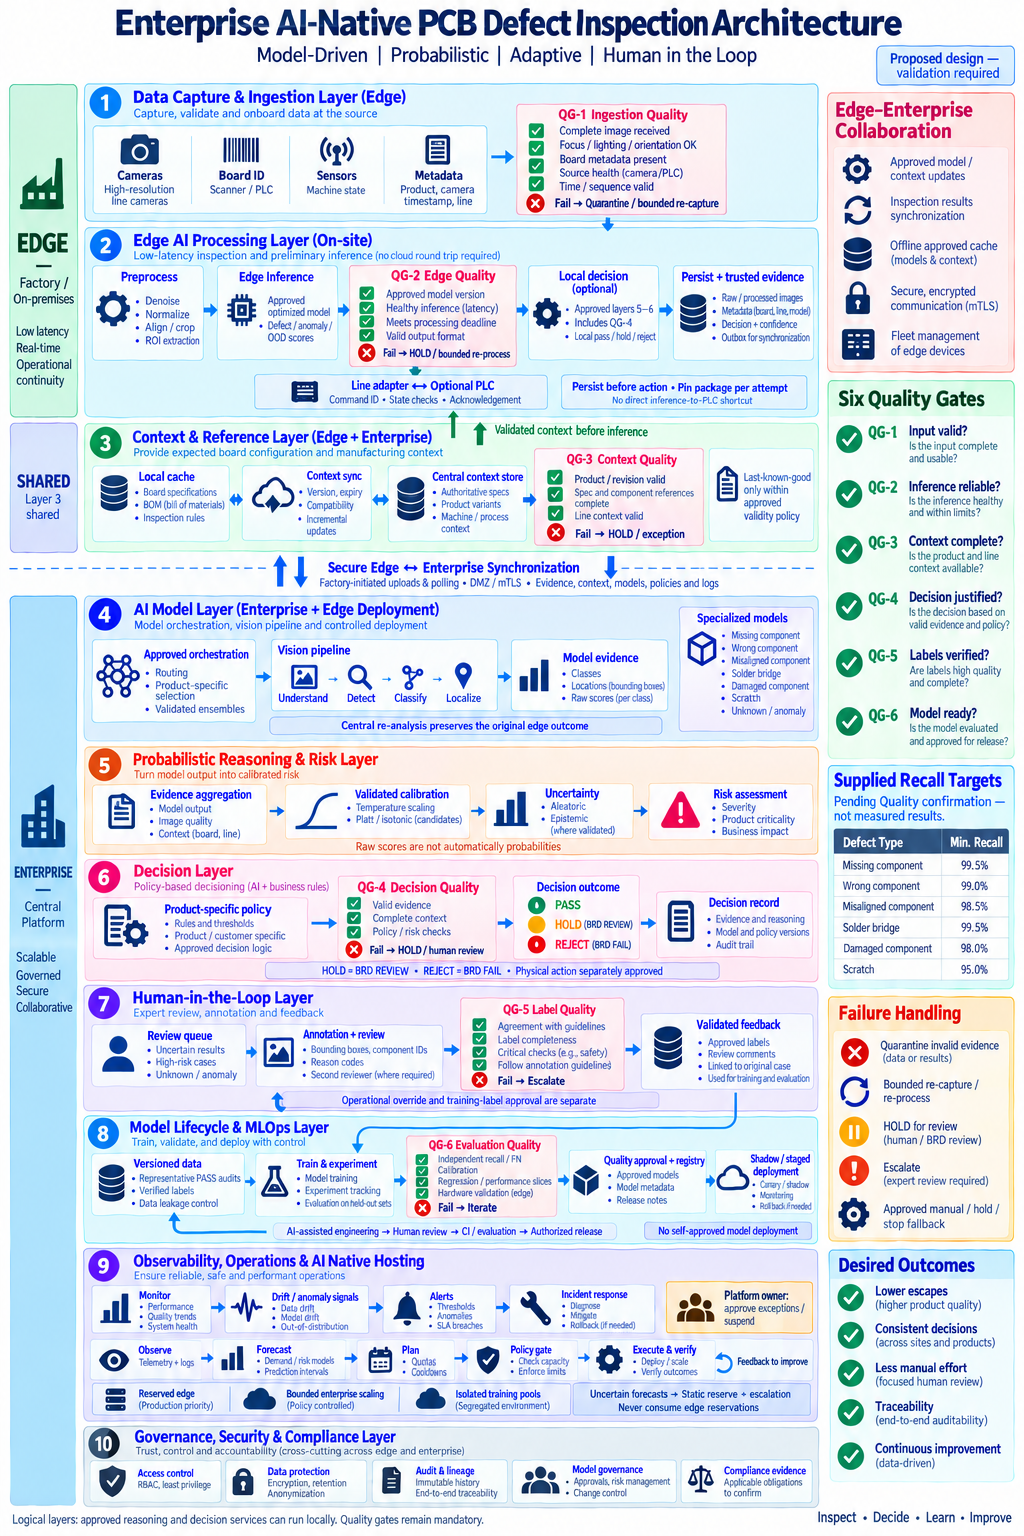
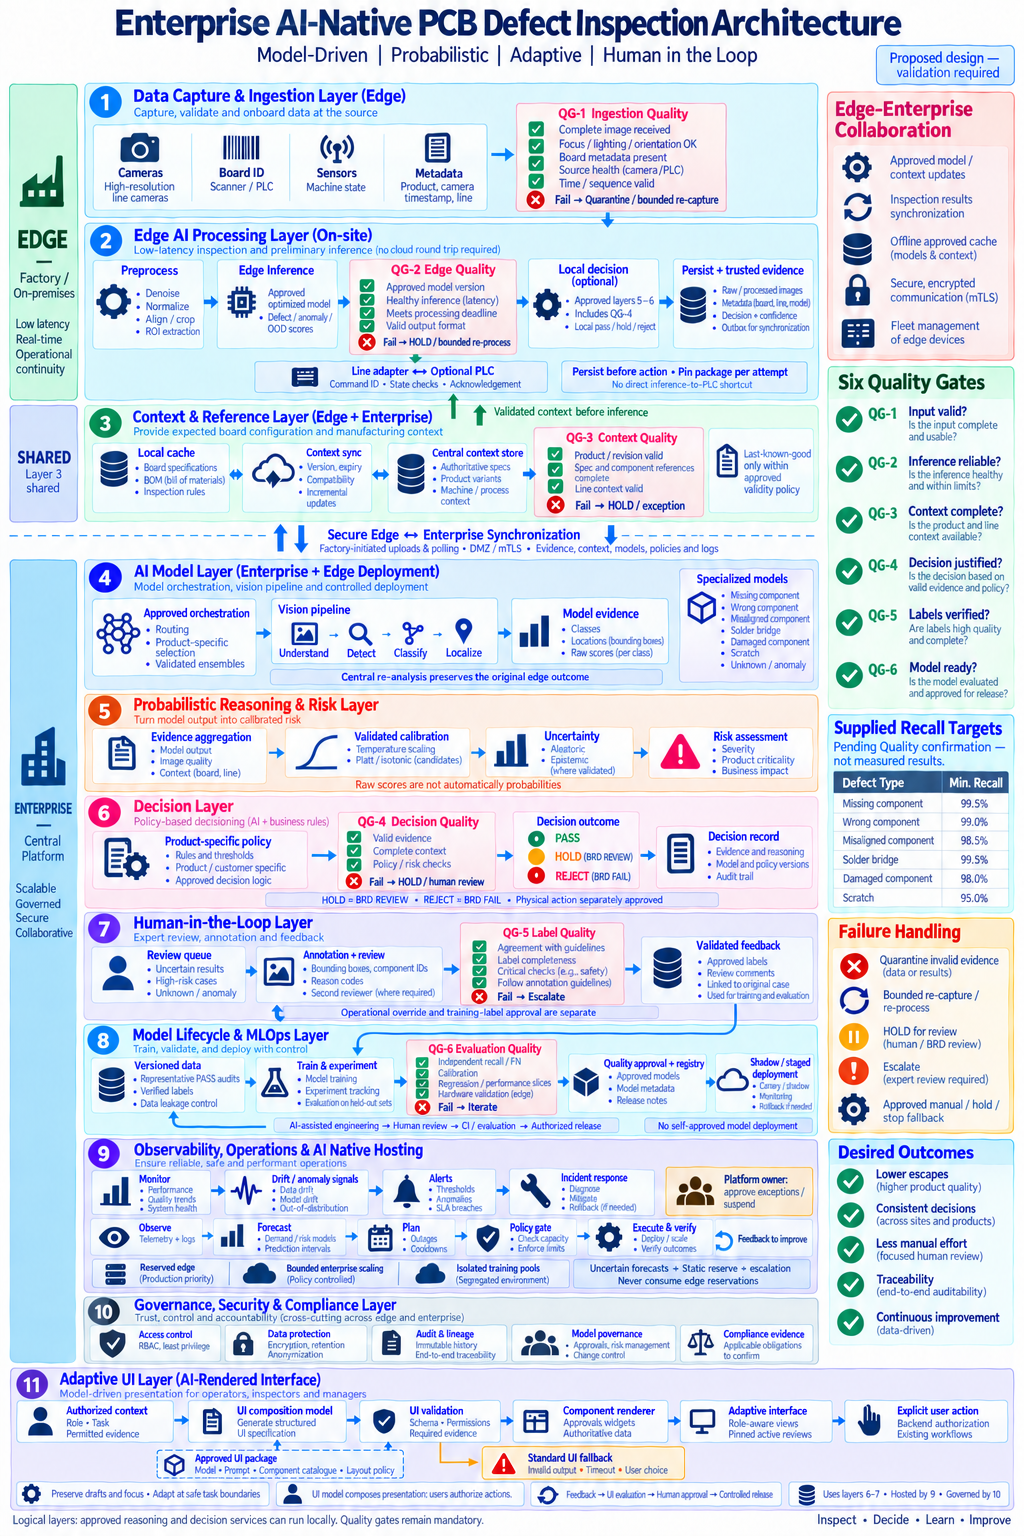
Enhanced diagram

diff --git a/AI_NATIVE_PROBABILISTIC_ARCHITECTURE_MERMAID.md b/AI_NATIVE_PROBABILISTIC_ARCHITECTURE_MERMAID.md
@@ -6,7 +6,7 @@ Target visual structure: [ARCH DIAGRAM WITH EDGE.png](<ARCH DIAGRAM WITH EDGE.pn
 
 Based on [Business Requirements Document.docx](<Business Requirements Document.docx>), [Solution architecture.png](<Solution architecture.png>) and [AI_NATIVE_GAP_ANALYSIS.docx](AI_NATIVE_GAP_ANALYSIS.docx). The gap analysis supplies the proposed extensions; it does not convert BRD discovery questions into approved requirements.
 
-This revision extends AI Native design from detection through hosting using four perspectives: **Model-Driven, Probabilistic, Adaptive, and Human in the Loop**. It contains five complementary Mermaid diagrams. Diagram 1 follows the expected ten-layer edge–enterprise architecture with QG-1 through QG-6; diagrams 2–4 expand decision, learning and engineering; diagram 5 defines adaptive hosting and operations. Standalone `.mmd` files with the same code are provided in `architecture/`. Predictive hosting and bounded operational adaptation are proposed extensions requested in this revision, not requirements already approved in the BRD.
+This revision extends AI Native design from detection through hosting using four perspectives: **Model-Driven, Probabilistic, Adaptive, and Human in the Loop**. It contains six complementary Mermaid diagrams. Diagram 1 preserves the expected layers 1–10 and QG-1 through QG-6, and adds **Layer 11: Adaptive UI (AI-rendered interface)** as the user interaction layer; diagrams 2–4 expand decision, learning and engineering; diagram 5 defines adaptive hosting and operations; diagram 6 details model-driven UI composition. Standalone `.mmd` files with the same code are provided in `architecture/`. Predictive hosting and Adaptive UI are user-requested extensions, not requirements already approved in the BRD. Existing layer numbering and responsibilities remain unchanged.
 
 ## 1. Architecture interpretation
 
@@ -39,6 +39,7 @@ Angular/TypeScript, Java/Spring Boot, Python/ONNX Runtime, PostgreSQL, RabbitMQ 
 | Engineering and evaluation | AI-assisted tasks grounded in approved context and executable contracts | Generated output is a hypothesis until verified | Feedback improves task context, test coverage and candidate implementation | Engineers and QA independently review outputs and evidence. |
 | Delivery and hosting | Immutable package, infrastructure specification and demand/risk model | Forecast intervals and risk estimates accompany capacity proposals | Bounded central scaling, scheduling and authorized rollback with cooldowns | Platform owners approve envelopes; Quality approves model-affecting changes. |
 | Operations and recovery | Versioned anomaly models, dependency maps and runbooks | Incident hypotheses include uncertainty and supporting telemetry | Low-risk pre-authorized runbooks; otherwise escalate; verify the result | Operators can stop adaptation, approve exceptions and restore known-good operation. |
+| Adaptive UI | Approved UI composition model, component catalogue and schema | Validate generated UI specifications; abstain or fall back on ambiguous requests | Compose views from role, task, evidence and explicit preferences at safe interaction boundaries | Users retain decision authority, can pin layouts and switch to a standard interface. |
 
 These are target capabilities with acceptance gates. Learned image-quality, ranking or operational models must earn deployment through evidence; deterministic baseline checks and static capacity reserves remain available when models are absent, stale or unreliable.
 
@@ -197,6 +198,25 @@ flowchart TB
             Audit[("Audit and lineage<br/>Restricted immutable history and end-to-end traceability")]
             Govern["Model governance and compliance evidence<br/>Approval workflows, risk management<br/>Internal / external audit; applicable obligations to confirm"]
         end
+        subgraph L11["11. ADAPTIVE UI LAYER - AI-rendered enterprise interface"]
+            UIUser["Operator / inspector / manager<br/>Task intent, explicit preferences and layout controls"]
+            UIContext["Authorized UI context service<br/>Role, task, permitted evidence and workflow state<br/>Filter data before model access"]
+            UIModel["Approved UI composition model<br/>Generate structured screen / component specification<br/>Select layout, evidence panels and approved actions"]
+            UICatalog[("Versioned UI contract and component catalogue<br/>Approved widgets, action IDs and required evidence<br/>Accessibility and interaction constraints")]
+            UIValidate{"UI specification validation<br/>Schema, component / action allowlists, permissions<br/>Mandatory evidence and workflow invariants satisfied?"}
+            UIRender["AI-rendered UI via deterministic renderer<br/>Approved Angular components from validated specification<br/>Stable focus, draft preservation and pinned active review"]
+            UIFallback["Standard validated interface<br/>Model timeout, invalid output or user-selected fallback"]
+            UIAction["Backend action gateway<br/>Reauthorize user and validate current record / board state<br/>Explicit user submission; existing workflow owns execution"]
+            UIUser --> UIContext --> UIModel --> UIValidate
+            UICatalog -.-> UIModel
+            UICatalog -.-> UIValidate
+            UIValidate -->|"Valid"| UIRender
+            UIValidate -->|"Invalid / uncertain"| UIFallback
+            UIModel -->|"Timeout / unavailable"| UIFallback
+            UIRender -->|"Displayed interface"| UIUser
+            UIFallback -->|"Displayed interface"| UIUser
+            UIUser -->|"Explicit action through either interface"| UIAction
+        end
     end
 
     Trusted -->|"Persisted evidence"| Sync
@@ -224,6 +244,16 @@ flowchart TB
     Govern -.-> Approval
     Govern -.-> CentralContext
     Govern -.-> Decision
+    Access -.-> UIContext
+    Review -->|"Permission-filtered review task"| UIContext
+    DecisionRecord -->|"Authorized original outcome and evidence"| UIContext
+    Monitor -->|"Authorized operational view"| UIContext
+    UIAction -->|"Existing authorized review workflow"| Annotation
+    UIAction -->|"Authorized read requests"| UIContext
+    UIRender -.->|"UI version and interaction telemetry"| Monitor
+    UIAction -->|"Actor, action and UI specification version"| Audit
+    Govern -.-> UICatalog
+    Deploy -.->|"Separately evaluated and approved UI model"| UIModel
 
     classDef ai fill:#eee6ff,stroke:#7954a1,color:#211a33;
     classDef gate fill:#fff0cc,stroke:#ad7600,color:#302400;
@@ -233,6 +263,10 @@ flowchart TB
     class QG1,QG2,QG3,QG4,QG5,QG6,Approval,Decision,EdgeDecision gate;
     class Trusted,Cache,CentralContext,DecisionRecord,Feedback,Registry,Audit data;
     class CaptureFailure,EdgeFailure,ContextFailure,DecisionHold,Escalate risk;
+    class UIModel ai;
+    class UIValidate,UIAction gate;
+    class UICatalog data;
+    class UIFallback risk;
 ```
 
 Operational interpretation: local inspection can continue during a central outage only while approved equipment, configuration, evidence capacity and the agreed local review/fallback procedure remain available. If the edge itself or its durable storage fails, the independent Manufacturing-approved procedure must work without relying on the failed application. No browser, assistant or training service connects directly to the PLC.
@@ -525,7 +559,7 @@ Persist images durably before committing references. Track partial uploads and c
 
 Quality must approve taxonomy, supported scope, metric definitions, per-defect limits, uncertainty/review policy, statistical acceptance and labeling authority. Manufacturing and Automation must approve throughput, the capture-to-action deadline, review/failure routing, equipment behavior and selected PLC/MES interfaces. Operations and Security must establish availability, offline duration, RTO/RPO, retention, network access and release permissions. Finance and Product must validate costs and benefits.
 
-The six recall values supplied in the expected image are recorded in section 10; they remain unconfirmed acceptance targets. Other numerical thresholds remain TBD. Calibration, uncertainty and unfamiliar-input methods must demonstrate value against their compute and review costs. The hosting platform must implement model-aware deployment, declared resource profiles, operational prediction, bounded adaptation and human oversight. Its substrate may be managed VMs or a container platform selected through benchmarking and operational review. A runtime LLM, vector database or cloud-dependent inspection path is not required to meet the four perspectives.
+The six recall values supplied in the expected image are recorded in section 10; they remain unconfirmed acceptance targets. Other numerical thresholds remain TBD. Calibration, uncertainty and unfamiliar-input methods must demonstrate value against their compute and review costs. The hosting platform must implement model-aware deployment, declared resource profiles, operational prediction, bounded adaptation and human oversight. Its substrate may be managed VMs or a container platform selected through benchmarking and operational review. Layer 11 adds a runtime UI composition model, potentially an LLM, outside the inspection critical path; the local inspection path remains independent of it.
 
 Production acceptance must exercise representative defects and variants, peak load, missing views, model/camera failure, central disconnection, full local storage, duplicate events, lost PLC acknowledgements, concurrent reviews, stale commands, restored evidence and compatible rollback. A diagram describes intended controls; passing evidence establishes readiness.
 
@@ -665,6 +699,82 @@ Track the expected outcomes: higher product quality, lower escape rate, reduced 
 
 ### 10.1 Supporting-view alignment and acceptance
 
-Diagram 2 expands layers 1–6 and operational review with QG-1 through QG-5. Diagram 3 expands layers 7–8 with QG-5 and QG-6. Diagram 4 supports AI-assisted delivery of the ten layers, retaining optional read-only assistance. Diagram 5 expands layer 9 hosting and fleet operations under layer 10 governance. PostgreSQL, object storage, durable queues, DMZ and backup controls remain implementation responsibilities even where the expected overview groups them into broader layers.
+Diagram 2 expands layers 1–6 and operational review with QG-1 through QG-5. Diagram 3 expands layers 7–8 with QG-5 and QG-6. Diagram 4 supports AI-assisted delivery, retaining optional read-only assistance. Diagram 5 expands layer 9 hosting and fleet operations under layer 10 governance. Diagram 6 expands the added Adaptive UI layer 11. PostgreSQL, object storage, durable queues, DMZ and backup controls remain implementation responsibilities even where the expected overview groups them into broader layers.
+
+## 11. Adaptive UI layer — AI-rendered interface (diagram 6)
+
+Layer 11 adds model-driven interface composition to the existing architecture. The model handles how an authorized task is presented: it selects approved components, arranges evidence, chooses suitable charts and exposes permitted workflow actions through a structured UI specification. A deterministic frontend renderer materializes that specification into the interface. This is runtime AI-rendered UI, beyond using AI to generate frontend code during development.
+
+The existing layers 1–10 continue to own inspection, decisions, review, learning, hosting and governance. Layer 11 presents those capabilities. It is distinct from the optional investigation assistant: the UI composition model controls presentation; an investigation assistant, when enabled, provides separately validated advisory content inside an approved component.
+
+```mermaid
+flowchart TD
+    User["User intent and explicit preferences<br/>Operator, inspector or manager"]
+    Context["Backend-authorized context builder<br/>User / role / line scope, current task and record version<br/>Permitted evidence, workflow state and approved data bindings"]
+    Contract[("Approved UI package<br/>Composition model + prompt / template version<br/>Component catalogue, schema, action IDs and layout policy")]
+    Compose["UI composition model<br/>Produce declarative UI specification<br/>Layout, widgets, evidence bindings and action references"]
+    Validate{"Deterministic validation<br/>Schema, allowlists, permission scope, mandatory content<br/>Accessibility and workflow constraints satisfied?"}
+    Boundary{"Safe to change layout?<br/>No active edit / submission or user accepts update?"}
+    Render["Deterministic component renderer<br/>Render validated model-composed interface<br/>Use authoritative data bindings for facts and outcomes"]
+    Keep["Keep pinned current interface<br/>Preserve focus, drafts and selected board<br/>Offer update after task completion"]
+    Fallback["Standard approved UI<br/>Usable without the composition model<br/>Preserve current task and unsent draft"]
+    Action["User explicitly submits an approved action"]
+    Backend["Existing backend action gateway<br/>Authorize again; validate record version, board state and expiry<br/>Execute through existing review / reporting services"]
+    Audit[("UI and action audit<br/>UI model, contract and specification versions<br/>User, record, action and outcome")]
+    Feedback["User feedback and measured task outcomes<br/>Correction requests, usability, accessibility and errors"]
+    Eval["Offline UI evaluation and governed improvement<br/>Representative tasks, adversarial input and replay<br/>Human UX / Quality / Security acceptance"]
+
+    User --> Context --> Compose --> Validate
+    Contract -.-> Compose
+    Contract -.-> Validate
+    Validate -->|"Valid"| Boundary
+    Validate -->|"Invalid or unsupported"| Fallback
+    Compose -->|"Timeout / model unavailable / abstention"| Fallback
+    Boundary -->|"Yes"| Render
+    Boundary -->|"No"| Keep
+    Keep -->|"Safe boundary or explicit user acceptance"| Boundary
+    Render -->|"Displayed view"| User
+    Fallback -->|"Displayed view"| User
+    User -->|"Pin layout / use standard view"| Fallback
+    User --> Action --> Backend --> Audit
+    Backend -->|"Updated authoritative workflow state"| Context
+    Render -->|"Specification identity and telemetry"| Audit
+    User --> Feedback --> Eval
+    Audit -->|"Authorized samples"| Eval
+    Eval -->|"Approved compatible UI release"| Contract
+
+    classDef ai fill:#eee6ff,stroke:#7954a1,color:#211a33;
+    classDef gate fill:#fff0cc,stroke:#ad7600,color:#302400;
+    classDef data fill:#e7f4e8,stroke:#39784a,color:#14321b;
+    classDef risk fill:#ffe5e5,stroke:#b83e3e,color:#4a1515;
+    class Compose,Eval ai;
+    class Validate,Boundary,Backend gate;
+    class Contract,Audit data;
+    class Fallback risk;
+```
+
+### 11.1 Composition and interaction boundaries
+
+| Concern | Adaptive UI behavior |
+| --- | --- |
+| Operator task | Compose a concise board status, evidence and escalation view from authorized context. |
+| Inspector task | Present original images, overlays, uncertainty, model/context versions, reasons and authorized decision controls. |
+| Manager task | Compose approved charts and summaries using backend-computed metrics with visible freshness and scope. |
+| Adaptation | Update at task boundaries or on explicit request; pin active reviews and preserve drafts, focus and board identity. Users can retain the current layout or select the standard UI. |
+| Generated output | Return a bounded declarative component specification, not executable JavaScript, arbitrary HTML, SQL or newly invented API endpoints. All components and action IDs come from approved contracts. |
+| Authority | Model-generated visibility or buttons never grant permission. Backend authorization, existing review checks and QG-1 through QG-6 remain unchanged. The UI model cannot submit a disposition or command equipment. |
+| Required evidence | Policy fixes the fields and controls that must be shown for a workflow. The model cannot conceal critical defects, remove uncertainty, substitute a fabricated outcome or relabel authoritative quality states. |
+| Data access | Filter context before inference. Use authorized data references and scoped caching; treat user text and retrieved content as untrusted. Cache keys include role/line/task scope and contract version; never reuse another user's evidence. |
+| Resilience | Timeout, invalid output, excessive complexity or unsupported request selects the approved standard UI. Neither model latency nor an interface refresh blocks edge inspection. Existing offline/manual review procedures still apply. |
+
+### 11.2 UI specification, evaluation and release
+
+The UI specification records its ID, model and prompt/template version, component/schema version, task/record reference, authorized data-binding IDs, layout, approved action references, mandatory-content policy and expiry. Preserve enough evidence to reconstruct what was displayed when a user acted. Avoid logging unnecessary sensitive prompt content.
+
+Evaluate task completion, review accuracy, mandatory-evidence visibility, accessibility, action correctness, role/line isolation, injection resistance, layout stability, rendering latency, fallback reliability and cost per completed task. A model's self-reported confidence is not an acceptance check: use independent validation and measured task outcomes. UI success metrics must not reward hiding difficult cases or encouraging unwarranted PASS decisions.
+
+Release the composition model, prompt/template, catalogue and renderer compatibility contract as an approved UI package. Reuse the existing governed evaluation, deployment and rollback infrastructure with UI-specific tests; vision-model recall tests do not validate a UI model. Human UX, Quality and Security review precedes scoped rollout. Verified feedback can propose improvements, but live interactions do not automatically retrain or deploy the UI model.
+
+This added layer supports FR-009 through FR-012 and reporting requirements while leaving the BRD acceptance logic intact. UI validation is a presentation control; it does not replace or renumber the six existing quality gates. Its hosting runs in isolated enterprise support capacity under layer 9, with layer 10 access, data-protection and audit controls.
 
 In addition to existing fault tests, exercise every quality-gate failure, stale/wrong BOM or spec revision, disconnected context synchronization, permitted versus prohibited last-known-good use, disabled local decisions, bounded re-capture, specialist-model selection, correlated evidence, label disagreement, regression failures and central decisions arriving after board movement. Gate outcomes, context versions and model-routing choices must be reconstructable from the inspection record.
